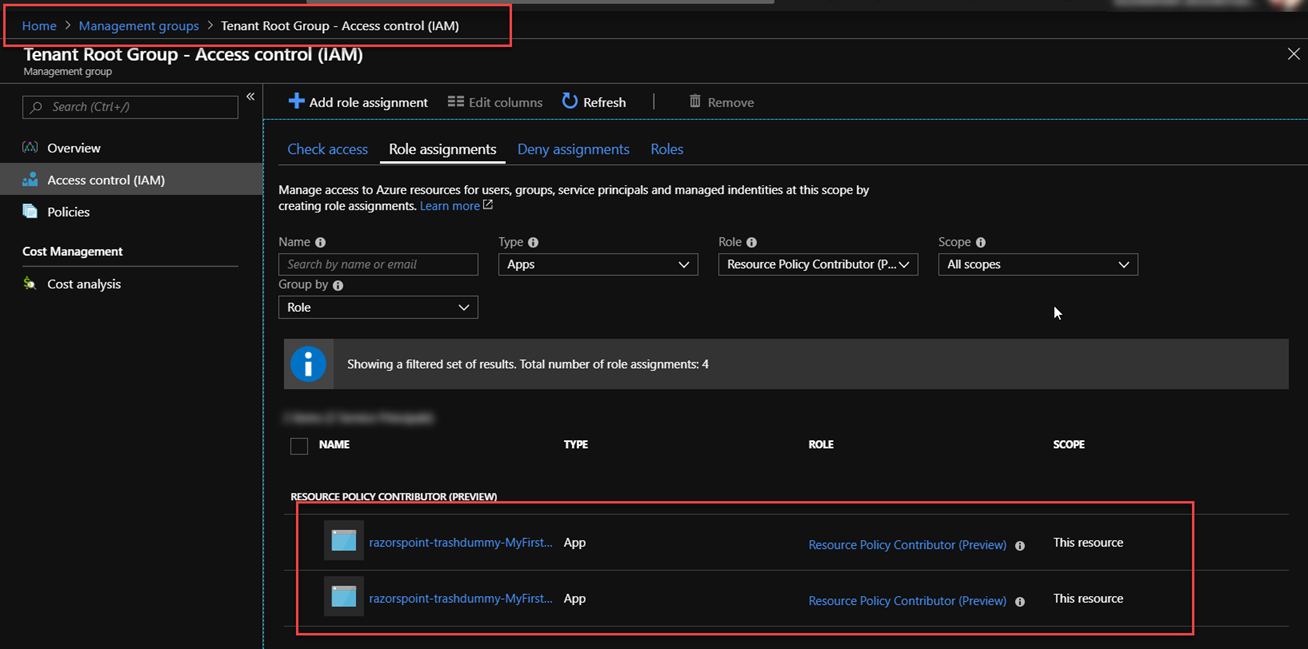
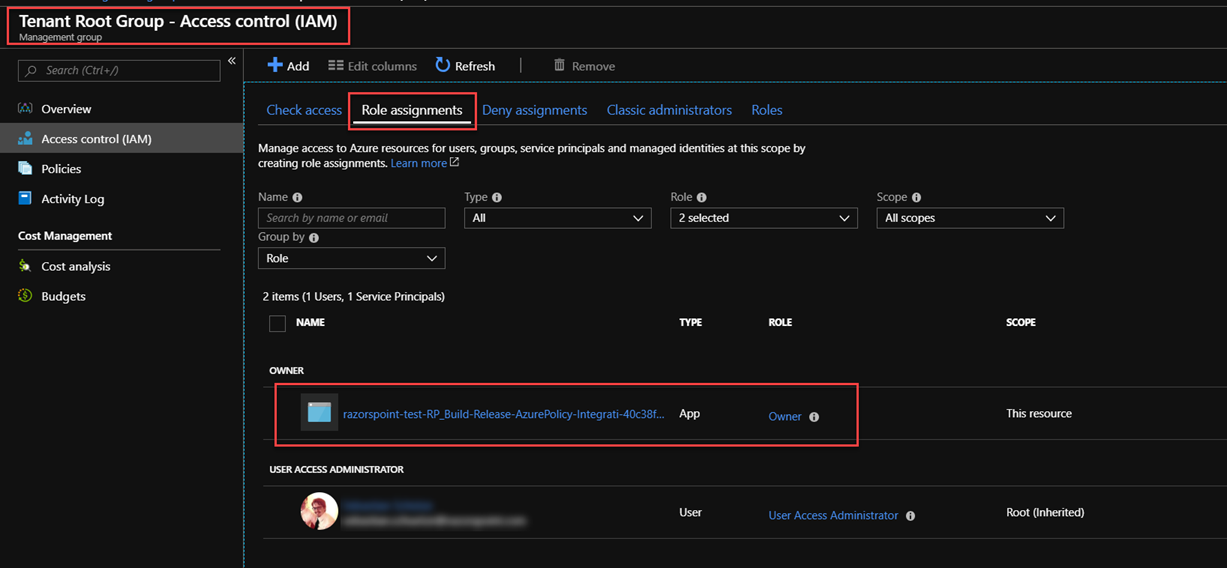
Changed the azure connection to only use scope levels of "ManagementGroup".

diff --git a/README.md b/README.md
@@ -17,13 +17,21 @@ This extension includes a group of tasks that can deploy Azure Policies and Init
 
 This task is intended to make it easier for you to publish Azure Policies and Policy Sets (Initiatives) to your azure tenant.
 
-This tasks needs a Azure Resource Manager service connection with a properly configured service principal. You can go forward and use Azure DevOps to create a service connection, by choosing the subscription.
+This tasks needs a Azure Resource Manager service connection with a properly configured service principal. You can go forward and use Azure DevOps to create a service connection, by choosing any subscription.
 
 ![](src/images/AzurePolicyTask/AzurePolicyTask03.png)
 
-Or you can go the more manual way and create an AAD application with Service Principal yourself and add the information into the advanced service connection form.
+**Note:**: Since we will create a service principal that needs access to management groups, we will customize the connection before creating. Since we will use the advanced options (see below)
 
-Either way, the service principal must be added to the root management group. Additionally, you can only use the roles "Owner" or "Resource Policy Contributor" (the latter is recommended). These roles are the only one that have write permissions for policies. With these settings in place, they can deploy to any management group or subscription scope that has been defined in the task.
+![](src/images/AzurePolicyTask/AzurePolicyTask04.png)
+
+In the customizable configuration (image below) you choose the scope level "ManagementGroup". Then you should choose a proper connection name and a management group. Since the chosen management group only defines the permission of the service principal and **not** the scope of anything you deploy you should set it to the highest group where you want to be able to deploy everything to (for me mostly the root tenant group).
+
+![](src/images/AzurePolicyTask/AzurePolicyTask05.png)
+
+Alternatively, you can go the more manual way and create an AAD application with Service Principal yourself and add the information into the advanced service connection form.
+
+Either way, the service principal must be added to highest group where you want to be able to deploy. Additionally, you can only use the roles "Owner" or "Resource Policy Contributor" (the latter is recommended, but in preview). These roles are the only one that have write permissions for policies. With these settings in place, they can deploy to any management group or subscription scope that has been defined in the task.
 
 ![](src/images/AzurePolicyTask/AzurePolicyTask01.png)
 
@@ -32,8 +40,8 @@ Either way, the service principal must be added to the root management group. Ad
 #### Governance Type
 Choose if you either want to deploy a policy or a policy set.
 
-#### Azure Subscription
-Choose a subscription with a created service principal, which has the proper permission as explained earlier above.
+#### Azure Management Group Connection
+Choose a connection that creates a service principal which is assigned to a management group, which has the proper permission as explained earlier above. For how to do it, check explanation above!
 
 #### Definition Location
 Choose the scope of the policy, which can be either scoped to a management group id or a subscription id.

diff --git a/wiki/CHANGELOG.md b/wiki/CHANGELOG.md
@@ -1,5 +1,11 @@
 # <a id="Change-Log"> </a> Change Log
 
+## 0.4.0
+
+### Minor
+
+- Changed the azure connection to only use scope levels of "ManagementGroup".
+
 ## 0.3.4
 
 ### Patch
